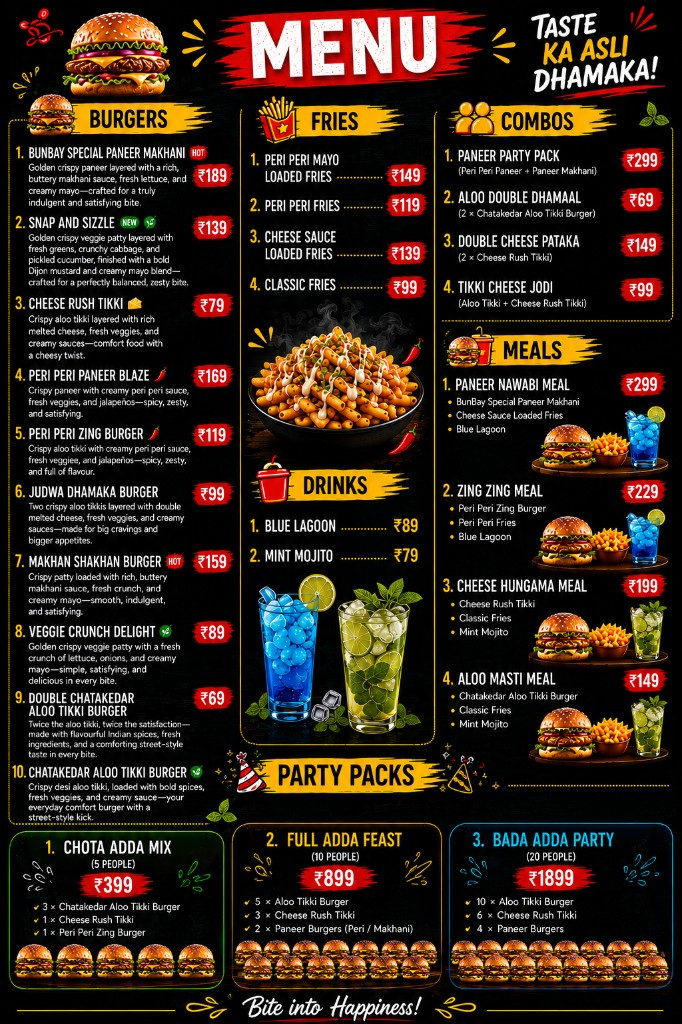
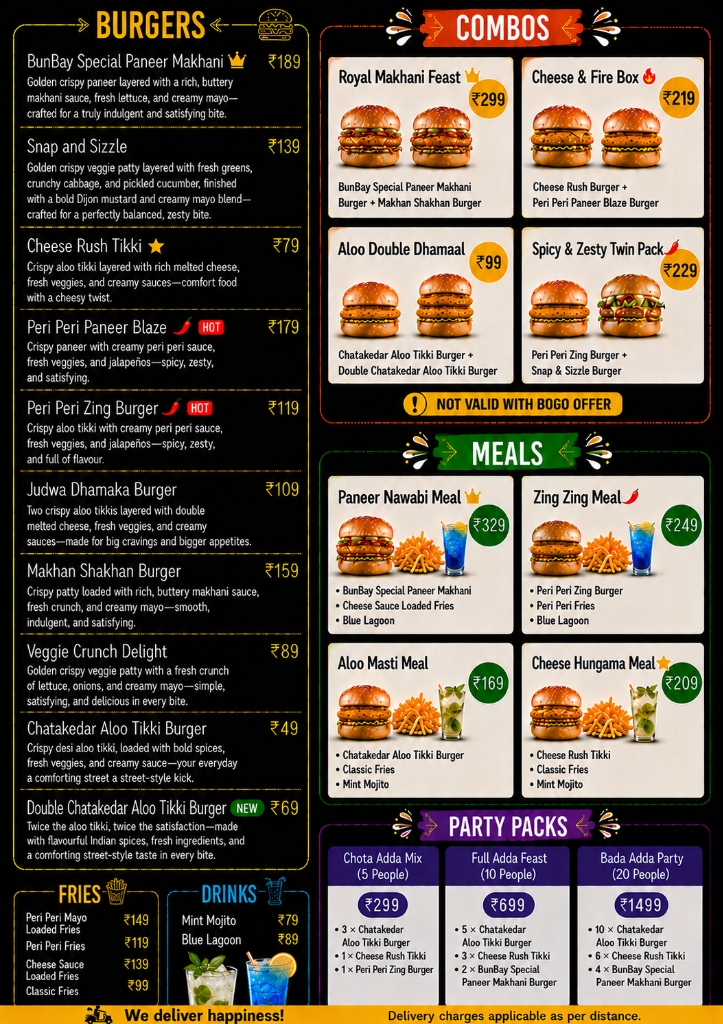
added flyer

diff --git a/src/index.css b/src/index.css
@@ -421,3 +421,173 @@ h1, h2, h3, h4, h5, h6 {
     font-size: 2.5rem;
   }
 }
+
+/* Promo Banner Section */
+.promo-section {
+  padding: 100px 0;
+  background-color: var(--bg-color);
+  border-top: 1px solid var(--border-subtle);
+  position: relative;
+}
+
+.promo-container {
+  display: flex;
+  flex-direction: column;
+  align-items: center;
+}
+
+.promo-content {
+  display: grid;
+  grid-template-columns: 1.1fr 1fr;
+  gap: 60px;
+  align-items: center;
+  margin-top: 20px;
+  background: var(--surface-color);
+  padding: 50px;
+  border-radius: var(--border-radius-lg);
+  border: 1px solid var(--border-subtle);
+  box-shadow: var(--shadow-md);
+}
+
+.promo-image-wrapper {
+  position: relative;
+  width: 100%;
+}
+
+.promo-img {
+  width: 100%;
+  height: auto;
+  border-radius: var(--border-radius-md);
+  box-shadow: var(--shadow-lg);
+  border: 1px solid var(--border-subtle);
+  transition: transform var(--transition-speed) ease;
+}
+
+.promo-img:hover {
+  transform: scale(1.02);
+}
+
+.promo-badge {
+  position: absolute;
+  top: -20px;
+  left: -20px;
+  background: var(--secondary);
+  color: white;
+  font-weight: 800;
+  padding: 15px;
+  border-radius: 50%;
+  width: 90px;
+  height: 90px;
+  display: flex;
+  align-items: center;
+  justify-content: center;
+  text-align: center;
+  transform: rotate(-15deg);
+  box-shadow: 0 8px 20px rgba(229, 30, 37, 0.4);
+  font-size: 1rem;
+  line-height: 1.2;
+  animation: pulse-glow 2s infinite;
+}
+
+.promo-details {
+  display: flex;
+  flex-direction: column;
+  gap: 20px;
+}
+
+.promo-details h3 {
+  font-size: 2.5rem;
+  color: var(--accent);
+}
+
+.promo-highlight-text {
+  font-size: 1.3rem;
+  font-weight: 700;
+  color: var(--primary);
+}
+
+.promo-details p {
+  color: var(--text-muted);
+  font-size: 1.1rem;
+  line-height: 1.7;
+}
+
+.promo-features {
+  display: flex;
+  flex-direction: column;
+  gap: 15px;
+  margin: 15px 0 25px;
+}
+
+.feature-item {
+  display: flex;
+  align-items: center;
+  gap: 15px;
+  font-size: 1.1rem;
+  font-weight: 600;
+  color: var(--text-primary);
+}
+
+.feature-icon {
+  font-size: 1.5rem;
+}
+
+.promo-btn {
+  align-self: flex-start;
+}
+
+@media (max-width: 992px) {
+  .promo-content {
+    grid-template-columns: 1fr;
+    gap: 40px;
+    padding: 30px;
+  }
+  
+  .promo-btn {
+    align-self: center;
+    width: 100%;
+  }
+
+  .promo-details {
+    text-align: center;
+  }
+
+  .promo-features {
+    align-items: center;
+  }
+}
+
+/* Large Order Note */
+.large-order-note {
+  display: flex;
+  align-items: center;
+  gap: 15px;
+  background-color: rgba(255, 199, 0, 0.08);
+  border: 1px solid var(--accent);
+  border-radius: var(--border-radius-md);
+  padding: 18px 25px;
+  margin: 30px auto 0;
+  max-width: 900px;
+  text-align: left;
+  box-shadow: var(--shadow-sm);
+}
+
+.large-order-note p {
+  margin: 0;
+  font-size: 1.05rem;
+  color: var(--text-primary);
+  line-height: 1.5;
+}
+
+.note-icon {
+  font-size: 1.5rem;
+}
+
+@media (max-width: 768px) {
+  .large-order-note {
+    flex-direction: column;
+    text-align: center;
+    padding: 20px;
+    gap: 10px;
+  }
+}

diff --git a/src/components/PromoBanner.jsx b/src/components/PromoBanner.jsx
@@ -1,0 +1,59 @@
+import React from 'react';
+import flyerImg from '../assets/bunbay_flyer.jpg';
+
+const PromoBanner = () => {
+  return (
+    <section className="promo-section">
+      <div className="container promo-container">
+        <h2 className="section-title">Special Launch Offer</h2>
+        <div className="promo-content">
+          <div className="promo-image-wrapper">
+            <img 
+              src={flyerImg} 
+              alt="BUNBAY Buy 1 Get 1 Free Launch Offer - June 7th 2026" 
+              className="promo-img" 
+            />
+            <div className="promo-badge">
+              BOGO<br/>Offer!
+            </div>
+          </div>
+          <div className="promo-details">
+            <h3>Buy 1 Get 1 Free!</h3>
+            <p className="promo-highlight-text">Launching on Sunday, 7th June 2026</p>
+            <p>
+              Get ready for the ultimate burger experience! BunBay is launching with a special Buy 1 Get 1 Free offer on our signature <strong>Chatakedar Aloo Tikki Burger</strong> and <strong>Cheese Rush Tikki Burger</strong>.
+            </p>
+            <div className="promo-features">
+              <div className="feature-item">
+                <span className="feature-icon">🛵</span>
+                <span>Delivery Only Model</span>
+              </div>
+              <div className="feature-item">
+                <span className="feature-icon">📍</span>
+                <span>Delivering in Vikhroli Only</span>
+              </div>
+              <div className="feature-item">
+                <span className="feature-icon">🌿</span>
+                <span>100% Vegetarian & Freshly Made</span>
+              </div>
+            </div>
+            <a 
+              id="promo-whatsapp-link"
+              href="https://wa.me/919653215863" 
+              target="_blank" 
+              rel="noopener noreferrer" 
+              className="btn btn-primary promo-btn"
+            >
+              <svg xmlns="http://www.w3.org/2000/svg" width="20" height="20" fill="currentColor" viewBox="0 0 16 16" style={{ marginRight: '10px' }}>
+                <path d="M13.601 2.326A7.854 7.854 0 0 0 7.994 0C3.627 0 .068 3.558.064 7.926c0 1.399.366 2.76 1.057 3.965L0 16l4.204-1.102a7.933 7.933 0 0 0 3.79.965h.004c4.368 0 7.926-3.558 7.93-7.93A7.898 7.898 0 0 0 13.6 2.326zM7.994 14.521a6.573 6.573 0 0 1-3.356-.92l-.24-.144-2.494.654.666-2.433-.156-.251a6.56 6.56 0 0 1-1.007-3.505c0-3.626 2.957-6.584 6.591-6.584a6.56 6.56 0 0 1 4.66 1.931 6.557 6.557 0 0 1 1.928 4.66c-.004 3.639-2.961 6.592-6.592 6.592zm3.615-4.934c-.197-.099-1.17-.578-1.353-.646-.182-.065-.315-.099-.445.099-.133.197-.513.646-.627.775-.114.133-.232.148-.43.05-.197-.1-.836-.308-1.592-.985-.59-.525-.985-1.175-1.103-1.372-.114-.198-.011-.304.088-.403.087-.088.197-.232.296-.346.1-.114.133-.198.198-.33.065-.134.034-.248-.015-.347-.05-.099-.445-1.076-.612-1.47-.16-.389-.323-.335-.445-.34-.114-.007-.247-.007-.38-.007a.729.729 0 0 0-.529.247c-.182.198-.691.677-.691 1.654 0 .977.71 1.916.81 2.049.098.133 1.394 2.132 3.383 2.992.47.205.84.326 1.129.418.475.152.904.129 1.246.08.38-.058 1.171-.48 1.338-.943.164-.464.164-.86.114-.943-.049-.084-.182-.133-.38-.232z"/>
+              </svg>
+              Pre-order on WhatsApp
+            </a>
+          </div>
+        </div>
+      </div>
+    </section>
+  );
+};
+
+export default PromoBanner;

diff --git a/src/components/MenuHighlights.jsx b/src/components/MenuHighlights.jsx
@@ -67,6 +67,12 @@ const MenuHighlights = () => {
             alt="BUNBAY full menu — burgers, fries, drinks, combos, meals, and party packs"
             className="menu-poster-img"
           />
+          <div className="large-order-note">
+            <span className="note-icon">📢</span>
+            <p>
+              <strong>Note on Large Orders:</strong> For orders of <strong>20 or more burgers</strong>, please place your order <strong>1 day prior</strong> so we can prepare and deliver them fresh for your celebration!
+            </p>
+          </div>
         </div>
       </div>
     </section>

diff --git a/src/App.jsx b/src/App.jsx
@@ -1,6 +1,7 @@
 import React from 'react';
 import Navbar from './components/Navbar';
 import Hero from './components/Hero';
+import PromoBanner from './components/PromoBanner';
 import MenuHighlights from './components/MenuHighlights';
 import Footer from './components/Footer';
 
@@ -10,6 +11,7 @@ function App() {
       <Navbar />
       <main>
         <Hero />
+        <PromoBanner />
         <MenuHighlights />
       </main>
       <Footer />

diff --git a/src/components/Footer.jsx b/src/components/Footer.jsx
@@ -8,7 +8,7 @@ const Footer = () => {
           <h2>Craving BUNBAY?</h2>
           <p>Reach out to us on WhatsApp to place your order directly.</p>
           
-          <a href="https://wa.me/[phone redacted]" target="_blank" rel="noopener noreferrer" className="whatsapp-btn">
+          <a id="footer-whatsapp-link" href="https://wa.me/[phone redacted]" target="_blank" rel="noopener noreferrer" className="whatsapp-btn">
             <svg xmlns="http://www.w3.org/2000/svg" width="24" height="24" fill="currentColor" viewBox="0 0 16 16">
               <path d="M13.601 2.326A7.854 7.854 0 0 0 7.994 0C3.627 0 .068 3.558.064 7.926c0 1.399.366 2.76 1.057 3.965L0 16l4.204-1.102a7.933 7.933 0 0 0 3.79.965h.004c4.368 0 7.926-3.558 7.93-7.93A7.898 7.898 0 0 0 13.6 2.326zM7.994 14.521a6.573 6.573 0 0 1-3.356-.92l-.24-.144-2.494.654.666-2.433-.156-.251a6.56 6.56 0 0 1-1.007-3.505c0-3.626 2.957-6.584 6.591-6.584a6.56 6.56 0 0 1 4.66 1.931 6.557 6.557 0 0 1 1.928 4.66c-.004 3.639-2.961 6.592-6.592 6.592zm3.615-4.934c-.197-.099-1.17-.578-1.353-.646-.182-.065-.315-.099-.445.099-.133.197-.513.646-.627.775-.114.133-.232.148-.43.05-.197-.1-.836-.308-1.592-.985-.59-.525-.985-1.175-1.103-1.372-.114-.198-.011-.304.088-.403.087-.088.197-.232.296-.346.1-.114.133-.198.198-.33.065-.134.034-.248-.015-.347-.05-.099-.445-1.076-.612-1.47-.16-.389-.323-.335-.445-.34-.114-.007-.247-.007-.38-.007a.729.729 0 0 0-.529.247c-.182.198-.691.677-.691 1.654 0 .977.71 1.916.81 2.049.098.133 1.394 2.132 3.383 2.992.47.205.84.326 1.129.418.475.152.904.129 1.246.08.38-.058 1.171-.48 1.338-.943.164-.464.164-.86.114-.943-.049-.084-.182-.133-.38-.232z"/>
             </svg>